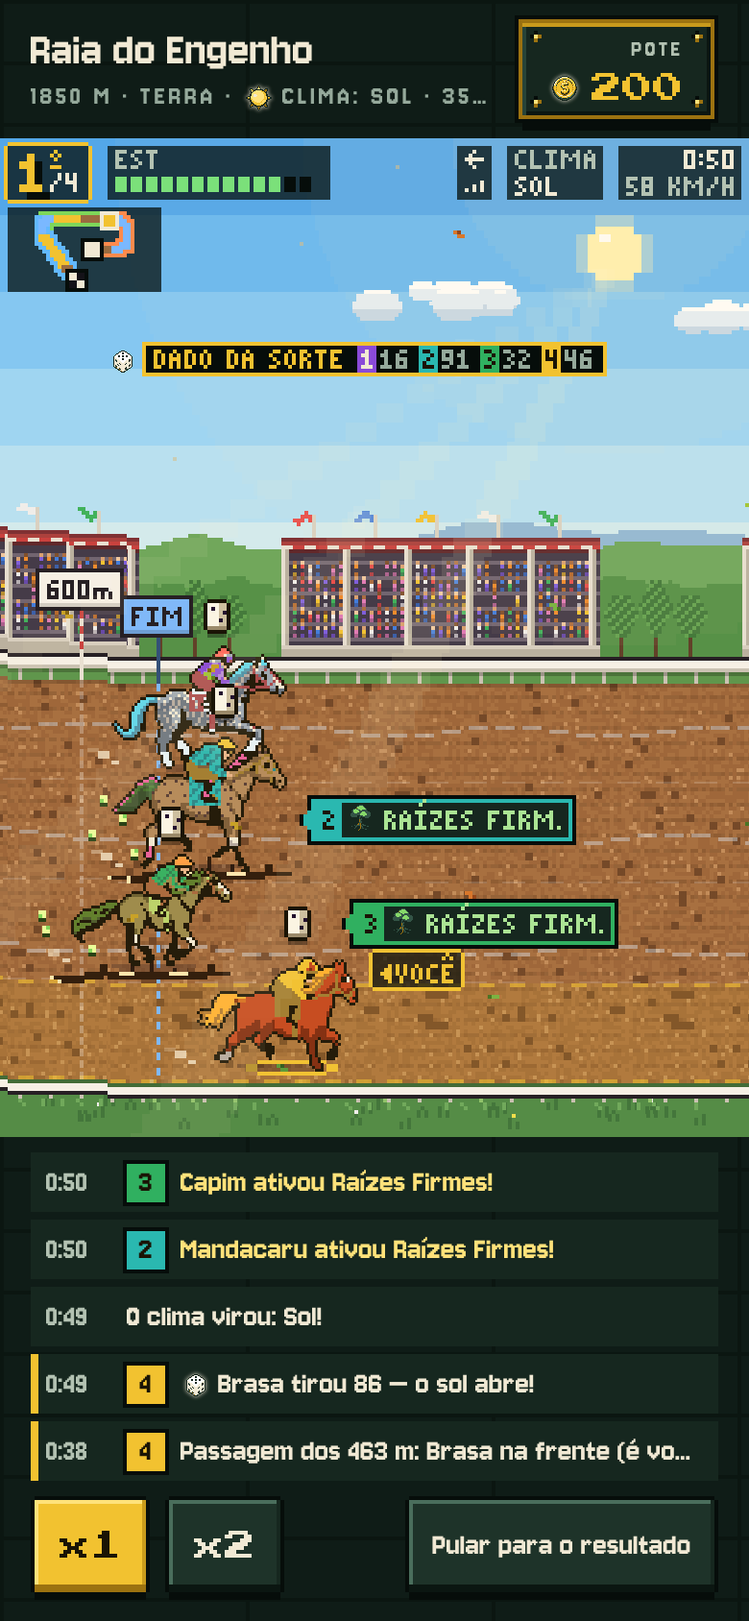
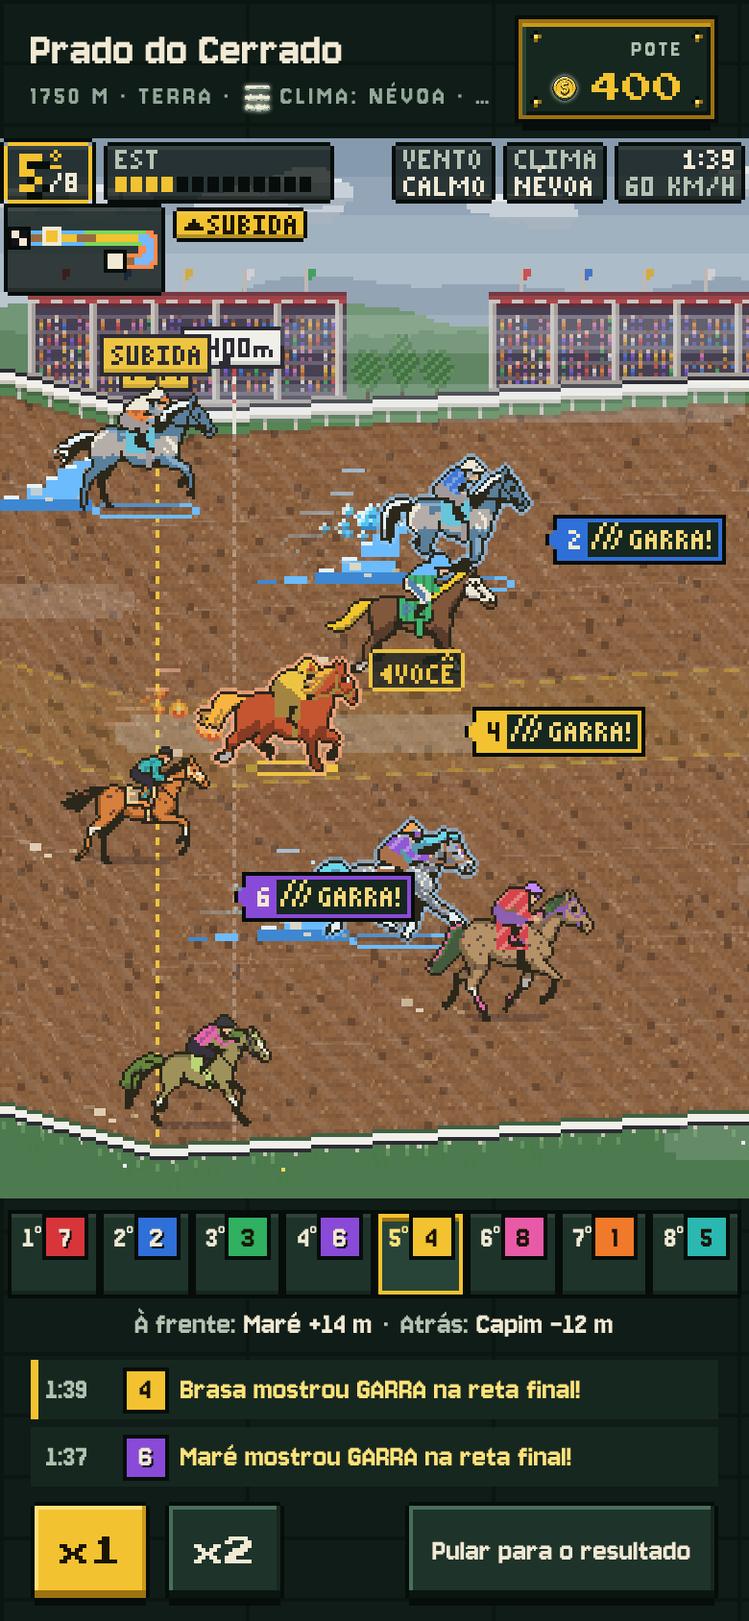
atualiza documentos, folha, capturas e memória da tela da corrida
Claude-Session: https://claude.ai/code/session_01MGExzKELAJ58uyj4wakVgJ

diff --git a/prototype/dist/interface.html b/prototype/dist/interface.html
@@ -1271,6 +1271,8 @@ img.icone.icone--32 { width: 32px; height: 32px; image-rendering: pixelated; }  
 <section class="comp" data-componente="4.13" aria-labelledby="c-4-13"><h2 class="comp-tit" id="c-4-13">4.13 Botão de ajuda</h2><p class="comp-nota">Classe .ajuda (alvo de 44×44 px; a peça de 14×14 px no ::before, em ouro quando aberto ou com o mouse).</p><div class="estado-par"><div class="col col--estreita"><div class="estado"><span class="estado-rot">normal</span><div class="alvo-ajuda"><button type="button" class="ajuda" aria-expanded="false" aria-label="O que é o Poder?" title="O Poder resume o cavalo."></button></div></div><div class="estado"><span class="estado-rot">aberto</span><div class="alvo-ajuda"><button type="button" class="ajuda" aria-expanded="true" aria-label="O que é o Poder?" title="O Poder resume o cavalo."></button></div></div><div class="estado"><span class="estado-rot">foco</span><div class="alvo-ajuda"><button type="button" class="ajuda foco-demo" aria-expanded="false" aria-label="O que é o Poder?" title="O Poder resume o cavalo."></button></div></div></div><div class="col col--larga" aria-hidden="true"><div class="estado"><span class="estado-rot">normal</span><div class="alvo-ajuda"><button type="button" class="ajuda" aria-expanded="false" aria-label="O que é o Poder?" title="O Poder resume o cavalo."></button></div></div><div class="estado"><span class="estado-rot">aberto</span><div class="alvo-ajuda"><button type="button" class="ajuda" aria-expanded="true" aria-label="O que é o Poder?" title="O Poder resume o cavalo."></button></div></div><div class="estado"><span class="estado-rot">foco</span><div class="alvo-ajuda"><button type="button" class="ajuda foco-demo" aria-expanded="false" aria-label="O que é o Poder?" title="O Poder resume o cavalo."></button></div></div></div></div></section>
 <section class="comp" data-componente="4.14" aria-labelledby="c-4-14"><h2 class="comp-tit" id="c-4-14">4.14 Avisos</h2><p class="comp-nota">Classes .aviso e .aviso--perda.</p><div class="estado-par"><div class="col col--estreita"><div class="estado"><span class="estado-rot">aviso</span><p class="aviso">Sua sala do Páreo continua aberta com entrada de 100 de Ouro.</p></div><div class="estado"><span class="estado-rot">aviso de perda</span><p class="aviso aviso--perda">Seu Ouro não cobre a menor entrada. Faça um treino gratuito.</p></div></div><div class="col col--larga" aria-hidden="true"><div class="estado"><span class="estado-rot">aviso</span><p class="aviso">Sua sala do Páreo continua aberta com entrada de 100 de Ouro.</p></div><div class="estado"><span class="estado-rot">aviso de perda</span><p class="aviso aviso--perda">Seu Ouro não cobre a menor entrada. Faça um treino gratuito.</p></div></div></div></section>
 <section class="comp" data-componente="4.15" aria-labelledby="c-4-15"><h2 class="comp-tit" id="c-4-15">4.15 Foco</h2><p class="comp-nota">Anel de 3 px em --foco (:focus-visible), igual em todos os componentes.</p><div class="estado-par"><div class="col col--estreita"><div class="estado"><span class="estado-rot">botão</span><button type="button" class="btn foco-demo">Com foco</button></div><div class="estado"><span class="estado-rot">opção</span><button type="button" class="btn opcao opcao--centro foco-demo" aria-pressed="false">Com foco</button></div><div class="estado"><span class="estado-rot">aba</span><div class="moldura-fixa moldura-fixa--solta"><button type="button" class="app-aba foco-demo"><span class="app-aba-icone" aria-hidden="true">🐎</span><span class="app-aba-rotulo">Estábulo</span></button></div></div><div class="estado"><span class="estado-rot">ajuda</span><div class="alvo-ajuda"><button type="button" class="ajuda foco-demo" aria-expanded="false" aria-label="O que é o Poder?" title="O Poder resume o cavalo."></button></div></div></div><div class="col col--larga" aria-hidden="true"><div class="estado"><span class="estado-rot">botão</span><button type="button" class="btn foco-demo">Com foco</button></div><div class="estado"><span class="estado-rot">opção</span><button type="button" class="btn opcao opcao--centro foco-demo" aria-pressed="false">Com foco</button></div><div class="estado"><span class="estado-rot">aba</span><div class="moldura-fixa moldura-fixa--solta"><button type="button" class="app-aba foco-demo"><span class="app-aba-icone" aria-hidden="true">🐎</span><span class="app-aba-rotulo">Estábulo</span></button></div></div><div class="estado"><span class="estado-rot">ajuda</span><div class="alvo-ajuda"><button type="button" class="ajuda foco-demo" aria-expanded="false" aria-label="O que é o Poder?" title="O Poder resume o cavalo."></button></div></div></div></div></section>
+<section class="comp" data-componente="4.16" aria-labelledby="c-4-16"><h2 class="comp-tit" id="c-4-16">4.16 Faixa de ordem da corrida</h2><p class="comp-nota">Classes .ordem, .ordem-item (o do jogador com .ordem-item--voce) e .ordem-vizinhos, embaixo da pista. No Dado da Sorte, o número de cada corredor em .ordem-dado e o do vencedor com .ordem-item--maior. Em tela baixa (.tela--baixa, altura &lt; 700 px), uma linha só: sem os vizinhos, e o número do Dado no lugar da posição.</p><div class="estado-par"><div class="col col--estreita"><div class="estado"><span class="estado-rot">normal (8 corredores)</span><section class="ordem" aria-label="Classificação"><ol class="ordem-lista"><li class="ordem-item" data-raia="6"><span class="ordem-pos">1<sup class="ord" aria-hidden="true">o</sup><span class="sr">º</span></span><span class="raia seda-6 raia--mini" aria-label="Raia 7">7</span><span class="ordem-dado"></span><span class="sr">Trovão</span></li><li class="ordem-item ordem-item--voce" data-raia="1"><span class="ordem-pos">2<sup class="ord" aria-hidden="true">o</sup><span class="sr">º</span></span><span class="raia seda-voce raia--mini" aria-label="Raia 2">2</span><span class="ordem-dado"></span><span class="sr">Brasa (você)</span></li><li class="ordem-item" data-raia="5"><span class="ordem-pos">3<sup class="ord" aria-hidden="true">o</sup><span class="sr">º</span></span><span class="raia seda-5 raia--mini" aria-label="Raia 6">6</span><span class="ordem-dado"></span><span class="sr">Pequi</span></li><li class="ordem-item" data-raia="3"><span class="ordem-pos">4<sup class="ord" aria-hidden="true">o</sup><span class="sr">º</span></span><span class="raia seda-3 raia--mini" aria-label="Raia 4">4</span><span class="ordem-dado"></span><span class="sr">Ipê</span></li><li class="ordem-item" data-raia="4"><span class="ordem-pos">5<sup class="ord" aria-hidden="true">o</sup><span class="sr">º</span></span><span class="raia seda-4 raia--mini" aria-label="Raia 5">5</span><span class="ordem-dado"></span><span class="sr">Faísca</span></li><li class="ordem-item" data-raia="0"><span class="ordem-pos">6<sup class="ord" aria-hidden="true">o</sup><span class="sr">º</span></span><span class="raia seda-0 raia--mini" aria-label="Raia 1">1</span><span class="ordem-dado"></span><span class="sr">Mandacaru</span></li><li class="ordem-item" data-raia="2"><span class="ordem-pos">7<sup class="ord" aria-hidden="true">o</sup><span class="sr">º</span></span><span class="raia seda-2 raia--mini" aria-label="Raia 3">3</span><span class="ordem-dado"></span><span class="sr">Lambari</span></li><li class="ordem-item" data-raia="7"><span class="ordem-pos">8<sup class="ord" aria-hidden="true">o</sup><span class="sr">º</span></span><span class="raia seda-7 raia--mini" aria-label="Raia 8">8</span><span class="ordem-dado"></span><span class="sr">Jatobá</span></li></ol><p class="ordem-vizinhos"><span class="viz"><span class="viz-rot">À frente: </span><b class="viz-nome">Trovão</b><span class="viz-m"> +3 m</span></span><span class="viz-sep"> · </span><span class="viz"><span class="viz-rot">Atrás: </span><b class="viz-nome">Pequi</b><span class="viz-m"> −4 m</span></span></p></section></div><div class="estado"><span class="estado-rot">Dado da Sorte (números e o vencedor marcado)</span><section class="ordem" aria-label="Classificação"><ol class="ordem-lista"><li class="ordem-item ordem-item--maior" data-raia="6"><span class="ordem-pos">1<sup class="ord" aria-hidden="true">o</sup><span class="sr">º</span></span><span class="raia seda-6 raia--mini" aria-label="Raia 7">7</span><span class="ordem-dado">86</span><span class="sr">Trovão</span></li><li class="ordem-item ordem-item--voce" data-raia="1"><span class="ordem-pos">2<sup class="ord" aria-hidden="true">o</sup><span class="sr">º</span></span><span class="raia seda-voce raia--mini" aria-label="Raia 2">2</span><span class="ordem-dado">73</span><span class="sr">Brasa (você)</span></li><li class="ordem-item" data-raia="5"><span class="ordem-pos">3<sup class="ord" aria-hidden="true">o</sup><span class="sr">º</span></span><span class="raia seda-5 raia--mini" aria-label="Raia 6">6</span><span class="ordem-dado">51</span><span class="sr">Pequi</span></li><li class="ordem-item" data-raia="3"><span class="ordem-pos">4<sup class="ord" aria-hidden="true">o</sup><span class="sr">º</span></span><span class="raia seda-3 raia--mini" aria-label="Raia 4">4</span><span class="ordem-dado">30</span><span class="sr">Ipê</span></li><li class="ordem-item" data-raia="4"><span class="ordem-pos">5<sup class="ord" aria-hidden="true">o</sup><span class="sr">º</span></span><span class="raia seda-4 raia--mini" aria-label="Raia 5">5</span><span class="ordem-dado">12</span><span class="sr">Faísca</span></li><li class="ordem-item" data-raia="0"><span class="ordem-pos">6<sup class="ord" aria-hidden="true">o</sup><span class="sr">º</span></span><span class="raia seda-0 raia--mini" aria-label="Raia 1">1</span><span class="ordem-dado">38</span><span class="sr">Mandacaru</span></li><li class="ordem-item" data-raia="2"><span class="ordem-pos">7<sup class="ord" aria-hidden="true">o</sup><span class="sr">º</span></span><span class="raia seda-2 raia--mini" aria-label="Raia 3">3</span><span class="ordem-dado">65</span><span class="sr">Lambari</span></li><li class="ordem-item" data-raia="7"><span class="ordem-pos">8<sup class="ord" aria-hidden="true">o</sup><span class="sr">º</span></span><span class="raia seda-7 raia--mini" aria-label="Raia 8">8</span><span class="ordem-dado">44</span><span class="sr">Jatobá</span></li></ol><p class="ordem-vizinhos"><span class="viz"><span class="viz-rot">À frente: </span><b class="viz-nome">Trovão</b><span class="viz-m"> colado</span></span><span class="viz-sep"> · </span><span class="viz"><span class="viz-rot">Atrás: </span><b class="viz-nome">Pequi</b><span class="viz-m"> −11 m</span></span></p></section></div><div class="estado"><span class="estado-rot">tela baixa</span><div class="tela--baixa"><section class="ordem" aria-label="Classificação"><ol class="ordem-lista"><li class="ordem-item" data-raia="6"><span class="ordem-pos">1<sup class="ord" aria-hidden="true">o</sup><span class="sr">º</span></span><span class="raia seda-6 raia--mini" aria-label="Raia 7">7</span><span class="ordem-dado"></span><span class="sr">Trovão</span></li><li class="ordem-item ordem-item--voce" data-raia="1"><span class="ordem-pos">2<sup class="ord" aria-hidden="true">o</sup><span class="sr">º</span></span><span class="raia seda-voce raia--mini" aria-label="Raia 2">2</span><span class="ordem-dado"></span><span class="sr">Brasa (você)</span></li><li class="ordem-item" data-raia="5"><span class="ordem-pos">3<sup class="ord" aria-hidden="true">o</sup><span class="sr">º</span></span><span class="raia seda-5 raia--mini" aria-label="Raia 6">6</span><span class="ordem-dado"></span><span class="sr">Pequi</span></li><li class="ordem-item" data-raia="3"><span class="ordem-pos">4<sup class="ord" aria-hidden="true">o</sup><span class="sr">º</span></span><span class="raia seda-3 raia--mini" aria-label="Raia 4">4</span><span class="ordem-dado"></span><span class="sr">Ipê</span></li><li class="ordem-item" data-raia="4"><span class="ordem-pos">5<sup class="ord" aria-hidden="true">o</sup><span class="sr">º</span></span><span class="raia seda-4 raia--mini" aria-label="Raia 5">5</span><span class="ordem-dado"></span><span class="sr">Faísca</span></li><li class="ordem-item" data-raia="0"><span class="ordem-pos">6<sup class="ord" aria-hidden="true">o</sup><span class="sr">º</span></span><span class="raia seda-0 raia--mini" aria-label="Raia 1">1</span><span class="ordem-dado"></span><span class="sr">Mandacaru</span></li><li class="ordem-item" data-raia="2"><span class="ordem-pos">7<sup class="ord" aria-hidden="true">o</sup><span class="sr">º</span></span><span class="raia seda-2 raia--mini" aria-label="Raia 3">3</span><span class="ordem-dado"></span><span class="sr">Lambari</span></li><li class="ordem-item" data-raia="7"><span class="ordem-pos">8<sup class="ord" aria-hidden="true">o</sup><span class="sr">º</span></span><span class="raia seda-7 raia--mini" aria-label="Raia 8">8</span><span class="ordem-dado"></span><span class="sr">Jatobá</span></li></ol><p class="ordem-vizinhos"><span class="viz"><span class="viz-rot">À frente: </span><b class="viz-nome">Trovão</b><span class="viz-m"> +3 m</span></span><span class="viz-sep"> · </span><span class="viz"><span class="viz-rot">Atrás: </span><b class="viz-nome">Pequi</b><span class="viz-m"> −4 m</span></span></p></section></div></div><div class="estado"><span class="estado-rot">tela baixa com o Dado</span><div class="tela--baixa"><section class="ordem" aria-label="Classificação"><ol class="ordem-lista"><li class="ordem-item ordem-item--maior" data-raia="6"><span class="ordem-pos">86</span><span class="raia seda-6 raia--mini" aria-label="Raia 7">7</span><span class="ordem-dado"></span><span class="sr">Trovão</span></li><li class="ordem-item ordem-item--voce" data-raia="1"><span class="ordem-pos">73</span><span class="raia seda-voce raia--mini" aria-label="Raia 2">2</span><span class="ordem-dado"></span><span class="sr">Brasa (você)</span></li><li class="ordem-item" data-raia="5"><span class="ordem-pos">51</span><span class="raia seda-5 raia--mini" aria-label="Raia 6">6</span><span class="ordem-dado"></span><span class="sr">Pequi</span></li><li class="ordem-item" data-raia="3"><span class="ordem-pos">30</span><span class="raia seda-3 raia--mini" aria-label="Raia 4">4</span><span class="ordem-dado"></span><span class="sr">Ipê</span></li><li class="ordem-item" data-raia="4"><span class="ordem-pos">12</span><span class="raia seda-4 raia--mini" aria-label="Raia 5">5</span><span class="ordem-dado"></span><span class="sr">Faísca</span></li><li class="ordem-item" data-raia="0"><span class="ordem-pos">38</span><span class="raia seda-0 raia--mini" aria-label="Raia 1">1</span><span class="ordem-dado"></span><span class="sr">Mandacaru</span></li><li class="ordem-item" data-raia="2"><span class="ordem-pos">65</span><span class="raia seda-2 raia--mini" aria-label="Raia 3">3</span><span class="ordem-dado"></span><span class="sr">Lambari</span></li><li class="ordem-item" data-raia="7"><span class="ordem-pos">44</span><span class="raia seda-7 raia--mini" aria-label="Raia 8">8</span><span class="ordem-dado"></span><span class="sr">Jatobá</span></li></ol><p class="ordem-vizinhos"><span class="viz"><span class="viz-rot">À frente: </span><b class="viz-nome">Trovão</b><span class="viz-m"> +3 m</span></span><span class="viz-sep"> · </span><span class="viz"><span class="viz-rot">Atrás: </span><b class="viz-nome">Pequi</b><span class="viz-m"> −4 m</span></span></p></section></div></div></div><div class="col col--larga" aria-hidden="true"><div class="estado"><span class="estado-rot">normal (8 corredores)</span><section class="ordem" aria-label="Classificação"><ol class="ordem-lista"><li class="ordem-item" data-raia="6"><span class="ordem-pos">1<sup class="ord" aria-hidden="true">o</sup><span class="sr">º</span></span><span class="raia seda-6 raia--mini" aria-label="Raia 7">7</span><span class="ordem-dado"></span><span class="sr">Trovão</span></li><li class="ordem-item ordem-item--voce" data-raia="1"><span class="ordem-pos">2<sup class="ord" aria-hidden="true">o</sup><span class="sr">º</span></span><span class="raia seda-voce raia--mini" aria-label="Raia 2">2</span><span class="ordem-dado"></span><span class="sr">Brasa (você)</span></li><li class="ordem-item" data-raia="5"><span class="ordem-pos">3<sup class="ord" aria-hidden="true">o</sup><span class="sr">º</span></span><span class="raia seda-5 raia--mini" aria-label="Raia 6">6</span><span class="ordem-dado"></span><span class="sr">Pequi</span></li><li class="ordem-item" data-raia="3"><span class="ordem-pos">4<sup class="ord" aria-hidden="true">o</sup><span class="sr">º</span></span><span class="raia seda-3 raia--mini" aria-label="Raia 4">4</span><span class="ordem-dado"></span><span class="sr">Ipê</span></li><li class="ordem-item" data-raia="4"><span class="ordem-pos">5<sup class="ord" aria-hidden="true">o</sup><span class="sr">º</span></span><span class="raia seda-4 raia--mini" aria-label="Raia 5">5</span><span class="ordem-dado"></span><span class="sr">Faísca</span></li><li class="ordem-item" data-raia="0"><span class="ordem-pos">6<sup class="ord" aria-hidden="true">o</sup><span class="sr">º</span></span><span class="raia seda-0 raia--mini" aria-label="Raia 1">1</span><span class="ordem-dado"></span><span class="sr">Mandacaru</span></li><li class="ordem-item" data-raia="2"><span class="ordem-pos">7<sup class="ord" aria-hidden="true">o</sup><span class="sr">º</span></span><span class="raia seda-2 raia--mini" aria-label="Raia 3">3</span><span class="ordem-dado"></span><span class="sr">Lambari</span></li><li class="ordem-item" data-raia="7"><span class="ordem-pos">8<sup class="ord" aria-hidden="true">o</sup><span class="sr">º</span></span><span class="raia seda-7 raia--mini" aria-label="Raia 8">8</span><span class="ordem-dado"></span><span class="sr">Jatobá</span></li></ol><p class="ordem-vizinhos"><span class="viz"><span class="viz-rot">À frente: </span><b class="viz-nome">Trovão</b><span class="viz-m"> +3 m</span></span><span class="viz-sep"> · </span><span class="viz"><span class="viz-rot">Atrás: </span><b class="viz-nome">Pequi</b><span class="viz-m"> −4 m</span></span></p></section></div><div class="estado"><span class="estado-rot">Dado da Sorte (números e o vencedor marcado)</span><section class="ordem" aria-label="Classificação"><ol class="ordem-lista"><li class="ordem-item ordem-item--maior" data-raia="6"><span class="ordem-pos">1<sup class="ord" aria-hidden="true">o</sup><span class="sr">º</span></span><span class="raia seda-6 raia--mini" aria-label="Raia 7">7</span><span class="ordem-dado">86</span><span class="sr">Trovão</span></li><li class="ordem-item ordem-item--voce" data-raia="1"><span class="ordem-pos">2<sup class="ord" aria-hidden="true">o</sup><span class="sr">º</span></span><span class="raia seda-voce raia--mini" aria-label="Raia 2">2</span><span class="ordem-dado">73</span><span class="sr">Brasa (você)</span></li><li class="ordem-item" data-raia="5"><span class="ordem-pos">3<sup class="ord" aria-hidden="true">o</sup><span class="sr">º</span></span><span class="raia seda-5 raia--mini" aria-label="Raia 6">6</span><span class="ordem-dado">51</span><span class="sr">Pequi</span></li><li class="ordem-item" data-raia="3"><span class="ordem-pos">4<sup class="ord" aria-hidden="true">o</sup><span class="sr">º</span></span><span class="raia seda-3 raia--mini" aria-label="Raia 4">4</span><span class="ordem-dado">30</span><span class="sr">Ipê</span></li><li class="ordem-item" data-raia="4"><span class="ordem-pos">5<sup class="ord" aria-hidden="true">o</sup><span class="sr">º</span></span><span class="raia seda-4 raia--mini" aria-label="Raia 5">5</span><span class="ordem-dado">12</span><span class="sr">Faísca</span></li><li class="ordem-item" data-raia="0"><span class="ordem-pos">6<sup class="ord" aria-hidden="true">o</sup><span class="sr">º</span></span><span class="raia seda-0 raia--mini" aria-label="Raia 1">1</span><span class="ordem-dado">38</span><span class="sr">Mandacaru</span></li><li class="ordem-item" data-raia="2"><span class="ordem-pos">7<sup class="ord" aria-hidden="true">o</sup><span class="sr">º</span></span><span class="raia seda-2 raia--mini" aria-label="Raia 3">3</span><span class="ordem-dado">65</span><span class="sr">Lambari</span></li><li class="ordem-item" data-raia="7"><span class="ordem-pos">8<sup class="ord" aria-hidden="true">o</sup><span class="sr">º</span></span><span class="raia seda-7 raia--mini" aria-label="Raia 8">8</span><span class="ordem-dado">44</span><span class="sr">Jatobá</span></li></ol><p class="ordem-vizinhos"><span class="viz"><span class="viz-rot">À frente: </span><b class="viz-nome">Trovão</b><span class="viz-m"> colado</span></span><span class="viz-sep"> · </span><span class="viz"><span class="viz-rot">Atrás: </span><b class="viz-nome">Pequi</b><span class="viz-m"> −11 m</span></span></p></section></div><div class="estado"><span class="estado-rot">tela baixa</span><div class="tela--baixa"><section class="ordem" aria-label="Classificação"><ol class="ordem-lista"><li class="ordem-item" data-raia="6"><span class="ordem-pos">1<sup class="ord" aria-hidden="true">o</sup><span class="sr">º</span></span><span class="raia seda-6 raia--mini" aria-label="Raia 7">7</span><span class="ordem-dado"></span><span class="sr">Trovão</span></li><li class="ordem-item ordem-item--voce" data-raia="1"><span class="ordem-pos">2<sup class="ord" aria-hidden="true">o</sup><span class="sr">º</span></span><span class="raia seda-voce raia--mini" aria-label="Raia 2">2</span><span class="ordem-dado"></span><span class="sr">Brasa (você)</span></li><li class="ordem-item" data-raia="5"><span class="ordem-pos">3<sup class="ord" aria-hidden="true">o</sup><span class="sr">º</span></span><span class="raia seda-5 raia--mini" aria-label="Raia 6">6</span><span class="ordem-dado"></span><span class="sr">Pequi</span></li><li class="ordem-item" data-raia="3"><span class="ordem-pos">4<sup class="ord" aria-hidden="true">o</sup><span class="sr">º</span></span><span class="raia seda-3 raia--mini" aria-label="Raia 4">4</span><span class="ordem-dado"></span><span class="sr">Ipê</span></li><li class="ordem-item" data-raia="4"><span class="ordem-pos">5<sup class="ord" aria-hidden="true">o</sup><span class="sr">º</span></span><span class="raia seda-4 raia--mini" aria-label="Raia 5">5</span><span class="ordem-dado"></span><span class="sr">Faísca</span></li><li class="ordem-item" data-raia="0"><span class="ordem-pos">6<sup class="ord" aria-hidden="true">o</sup><span class="sr">º</span></span><span class="raia seda-0 raia--mini" aria-label="Raia 1">1</span><span class="ordem-dado"></span><span class="sr">Mandacaru</span></li><li class="ordem-item" data-raia="2"><span class="ordem-pos">7<sup class="ord" aria-hidden="true">o</sup><span class="sr">º</span></span><span class="raia seda-2 raia--mini" aria-label="Raia 3">3</span><span class="ordem-dado"></span><span class="sr">Lambari</span></li><li class="ordem-item" data-raia="7"><span class="ordem-pos">8<sup class="ord" aria-hidden="true">o</sup><span class="sr">º</span></span><span class="raia seda-7 raia--mini" aria-label="Raia 8">8</span><span class="ordem-dado"></span><span class="sr">Jatobá</span></li></ol><p class="ordem-vizinhos"><span class="viz"><span class="viz-rot">À frente: </span><b class="viz-nome">Trovão</b><span class="viz-m"> +3 m</span></span><span class="viz-sep"> · </span><span class="viz"><span class="viz-rot">Atrás: </span><b class="viz-nome">Pequi</b><span class="viz-m"> −4 m</span></span></p></section></div></div><div class="estado"><span class="estado-rot">tela baixa com o Dado</span><div class="tela--baixa"><section class="ordem" aria-label="Classificação"><ol class="ordem-lista"><li class="ordem-item ordem-item--maior" data-raia="6"><span class="ordem-pos">86</span><span class="raia seda-6 raia--mini" aria-label="Raia 7">7</span><span class="ordem-dado"></span><span class="sr">Trovão</span></li><li class="ordem-item ordem-item--voce" data-raia="1"><span class="ordem-pos">73</span><span class="raia seda-voce raia--mini" aria-label="Raia 2">2</span><span class="ordem-dado"></span><span class="sr">Brasa (você)</span></li><li class="ordem-item" data-raia="5"><span class="ordem-pos">51</span><span class="raia seda-5 raia--mini" aria-label="Raia 6">6</span><span class="ordem-dado"></span><span class="sr">Pequi</span></li><li class="ordem-item" data-raia="3"><span class="ordem-pos">30</span><span class="raia seda-3 raia--mini" aria-label="Raia 4">4</span><span class="ordem-dado"></span><span class="sr">Ipê</span></li><li class="ordem-item" data-raia="4"><span class="ordem-pos">12</span><span class="raia seda-4 raia--mini" aria-label="Raia 5">5</span><span class="ordem-dado"></span><span class="sr">Faísca</span></li><li class="ordem-item" data-raia="0"><span class="ordem-pos">38</span><span class="raia seda-0 raia--mini" aria-label="Raia 1">1</span><span class="ordem-dado"></span><span class="sr">Mandacaru</span></li><li class="ordem-item" data-raia="2"><span class="ordem-pos">65</span><span class="raia seda-2 raia--mini" aria-label="Raia 3">3</span><span class="ordem-dado"></span><span class="sr">Lambari</span></li><li class="ordem-item" data-raia="7"><span class="ordem-pos">44</span><span class="raia seda-7 raia--mini" aria-label="Raia 8">8</span><span class="ordem-dado"></span><span class="sr">Jatobá</span></li></ol><p class="ordem-vizinhos"><span class="viz"><span class="viz-rot">À frente: </span><b class="viz-nome">Trovão</b><span class="viz-m"> +3 m</span></span><span class="viz-sep"> · </span><span class="viz"><span class="viz-rot">Atrás: </span><b class="viz-nome">Pequi</b><span class="viz-m"> −4 m</span></span></p></section></div></div></div></div></section>
+<section class="comp" data-componente="4.17" aria-labelledby="c-4-17"><h2 class="comp-tit" id="c-4-17">4.17 Abas do resultado</h2><p class="comp-nota">Sub-abas .subabas (as mesmas da ficha da montaria), com aria-pressed na aba aberta; o resultado abre em &quot;Chegada&quot;.</p><div class="estado-par"><div class="col col--estreita"><div class="estado"><span class="estado-rot">Chegada aberta</span><div class="subabas" role="group" aria-label="Detalhes da corrida"><button type="button" class="btn opcao opcao--centro" data-acao="resultado-aba" data-id="chegada" aria-pressed="true">Chegada</button><button type="button" class="btn opcao opcao--centro" data-acao="resultado-aba" data-id="momentos" aria-pressed="false">Momentos</button></div></div><div class="estado"><span class="estado-rot">Momentos aberta</span><div class="subabas" role="group" aria-label="Detalhes da corrida"><button type="button" class="btn opcao opcao--centro" data-acao="resultado-aba" data-id="chegada" aria-pressed="false">Chegada</button><button type="button" class="btn opcao opcao--centro" data-acao="resultado-aba" data-id="momentos" aria-pressed="true">Momentos</button></div></div></div><div class="col col--larga" aria-hidden="true"><div class="estado"><span class="estado-rot">Chegada aberta</span><div class="subabas" role="group" aria-label="Detalhes da corrida"><button type="button" class="btn opcao opcao--centro" data-acao="resultado-aba" data-id="chegada" aria-pressed="true">Chegada</button><button type="button" class="btn opcao opcao--centro" data-acao="resultado-aba" data-id="momentos" aria-pressed="false">Momentos</button></div></div><div class="estado"><span class="estado-rot">Momentos aberta</span><div class="subabas" role="group" aria-label="Detalhes da corrida"><button type="button" class="btn opcao opcao--centro" data-acao="resultado-aba" data-id="chegada" aria-pressed="false">Chegada</button><button type="button" class="btn opcao opcao--centro" data-acao="resultado-aba" data-id="momentos" aria-pressed="true">Momentos</button></div></div></div></div></section>
[1 lines of base64/hex data omitted]
 </main>
 </body>

diff --git a/docs/memoria/ESTADO.md b/docs/memoria/ESTADO.md
@@ -1,6 +1,6 @@
 # Estado do projeto
 
-_Atualizado em 2026-11-15._
+_Atualizado em 2026-11-16._
 
 **Fase:** Protótipo, a caminho do MVP. **Ainda não é hora de publicar no Play**; o caminho, as
 durações e o checklist estão em `docs/cronograma.md`. **Tecnologia decidida (2026-11-10):** o
@@ -9,9 +9,9 @@ protótipo vira o jogo, a mesma base web empacotada para Android, com os módulo
 ## Onde estamos
 - **Branches:** a `main` tem tudo até o bloco 1b e a parte 2b da Visuais 2 (`claude/cavalos-v3` integrada em
   2026-11-14, por fast-forward). Em aberto só a `claude/empacotamento` (em pausa, só com as decisões iniciais; volta
-  como bloco 3). A `claude/visuais-2` leva a parte 3a (acabamento da interface), pronta e **ainda sem merge na `main`**
-  (build b7219a2 mais a rodada final de correções); a `claude/visuais-2` leva a 3a e a 3b, prontas, esperando o Vinicius; a 3c sai dela.
-  Trabalho novo sai da `main`, exceto a 3c.
+  como bloco 3). A `claude/visuais-2` leva a frente "interface" da Visuais 2 inteira (3a acabamento, 3b Estábulo e
+  montaria no celular, 3c tela da corrida), completa e **ainda sem merge na `main`**: o Vinicius joga antes e decide a
+  integração. Trabalho novo sai da `main`.
 - **Onde jogar** (artefatos privados do claude.ai; republicar depois de cada build):
   - jogo de produção, sem modo DEV: https://claude.ai/artifact/MKTKQUYmzBNun92abFzygn (`prototype/dist/jogo.html`)
   - build de teste com modo DEV: https://claude.ai/artifact/LiMr2cM7FRgFZqJ6dFHPhU (`prototype/dist/jogo-dev.html`)
@@ -19,7 +19,8 @@ protótipo vira o jogo, a mesma base web empacotada para Android, com os módulo
   - no computador: `prototype/dist/preview.html` (com `?dev=1` para o modo DEV).
 - **Modo DEV:** save separado (`galope-elemental:dev`), gaveta "DEV" com Moedas, Cavalo, Itens,
   Próxima corrida (pista, clima, vento, skills sempre) e Perfil. Nunca toca no save real.
-- **Verificação:** `./scripts/check.sh` em 8 etapas termina em `VERIFICAÇÃO COMPLETA: OK` (129 testes de simulação, 104 de efeitos, 170 de moldes, 615 conferências do wiki, 87 metas de balanço no modo rápido e 165 no completo, e o teste de interface; contagem de 2026-11-15, parte 3b da Visuais 2: 129 / 104 / 170 / 615 / 87, sem mudança nas regras).
+- **Verificação:** `./scripts/check.sh` em 8 etapas termina em `VERIFICAÇÃO COMPLETA: OK` (129 testes de simulação, 117 de efeitos, 170 de moldes, 615 conferências do wiki, 87 metas de balanço no modo rápido e 165 no completo, e o teste de interface; contagem de 2026-11-16, parte 3c da Visuais 2: 129 / 117 / 170 / 615 / 87, sem mudança nas regras; os testes de efeitos
+  passaram de 104 para 117 com a 3c).
 
 ## Pronto (o detalhe de cada frente está na spec, em `docs/superpowers/specs/`)
 | Frente | Entrega | Spec |
@@ -103,18 +104,61 @@ Spec em `docs/superpowers/specs/2026-11-14-interface-acabamento-design.md`, plan
     conta não fecha); meta nova: com as abas no topo, os 7 status inteiros numa tela;
   - "Genética" no topo da aba Status; custo "·N" embaixo do valor;
   - a barra presa não pega toque por ~0,4 s ao aparecer e por ~0,4 s depois do 1º toque no Confirmar (contra toque acidental).
-- **Para a 3c:** o `::before` da `.opcao` escolhida já está ocupado pelo destaque; o bloco de `box-shadow` do botão se
-  repete em `.btn`, `.app-aba`, `.capacete-btn` e `.montaria-linha` (4 cópias; dá para trocar por propriedades). Pendências
-  da 3b que ficam para a 3c: o motivo que repete uma frase já na tela (a barra presa cresce ~100 px no Confirmar travado) e a
-  lista que pula quando a `.motivo` de um +N some; e a plaquinha "Ativa" da linha do Estábulo sem contorno no modo de
-  cores forçadas (só aparência).
-- **Próximos passos:** 3c (tela da corrida; rever o ordinal sem `.sr` na faixa de eventos), com spec e plano. A 3b está pronta (acima).
-  Pendências menores da 3a (sem hover/apertado nas abas da barra de baixo, "ç" de
-  Expedição encostado no bisel).
+- **Para depois (a 3c não mexeu):** o `::before` da `.opcao` escolhida já está ocupado pelo destaque; o bloco de
+  `box-shadow` do botão se repete em `.btn`, `.app-aba`, `.capacete-btn` e `.montaria-linha` (4 cópias; dá para trocar por
+  propriedades). As três pendências da 3b (o motivo repetido, a lista que pulava e a plaquinha "Ativa" nas cores forçadas) e
+  o ordinal sem `.sr` na narração da corrida foram fechados na 3c (seção abaixo).
+- **Pendências menores da 3a:** sem hover/apertado nas abas da barra de baixo; "ç" de Expedição encostado no bisel.
+
+## Visuais 2, parte 3c: tela da corrida (pronta em 2026-11-16, na `claude/visuais-2`)
+Spec em `docs/superpowers/specs/2026-11-15-tela-da-corrida-design.md` (aprovada pelo Vinicius), plano em
+`docs/superpowers/plans/2026-11-16-tela-da-corrida.md`; decisões em `decisoes.md` (2026-11-16, as dele e as da execução);
+`docs/GDD.md` §5. Com ela, a frente "interface" (3a, 3b, 3c) está completa na `claude/visuais-2`, **sem merge na `main`**: o
+Vinicius joga antes e decide.
+- **O que mudou:** faixa de ordem embaixo da pista (todos os corredores em ordem, e quem vem logo à frente e logo atrás, com
+  a distância); narração em caixa de altura fixa (cada frase em até 2 linhas, sem "…"); Dado da Sorte numa faixa grande na
+  pista, com o número de cada corredor na faixa de ordem, revelados só quando os dados param; faixa do lugar na chegada;
+  nome inteiro das skills dos rivais nas plaquinhas; contorno e bisel no painel do topo; resultado numa tela, com as abas
+  Chegada e Momentos e o 1º lugar maior no pódio; as três pendências da 3b (motivo repetido, lista que pulava, "Ativa" nas
+  cores forçadas). Nenhuma regra, número ou texto de regra mudou.
+- **Medidas antes → depois** (modo DEV, densidade 2):
+  - corrida a 360×780 (7 corredores): pista de 540 para 464 px; faixa de ordem 68 px; narração 66 px (igual);
+  - corrida a 360×640 (tela baixa): pista de 400 para 398 px, sem o layout compacto; faixa de ordem 28 px (uma linha);
+    narração de 66 para 33 px (uma frase);
+  - a lista da faixa de ordem é reescrita no máximo 4 vezes por segundo (medido: 2 em 2 s em x2); pior quadro com 3.905
+    chamadas de desenho para o limite de 4.500 (limite sem mudança), ~1,04 ms de JS por quadro;
+  - resultado a 360×780 (7 corredores): página de 2.468 para 1.481 px (teto do teste 1.500); fim das abas em 732 px (janela
+    de 780); linha da tabela de 77 para 66 px; pódio 336×172 px, 1º na escala 3 e 2º/3º na escala 2;
+  - Confirmar travado (pendência da 3b): a barra presa ia de 165,75 a 257,5 px no toque, agora fica em 165,75 px; o +1
+    tocado na linha de baixo ia de 419,5 para 345 px, agora de 419,5 para 419 px.
+- **Verificação:** `./scripts/check.sh` OK (129 testes de simulação, 117 de efeitos — eram 104: a 3c acrescentou os das faixas
+  novas e das plaquinhas e tirou os 2 da faixa de números antiga —, 170 de moldes, 615 conferências do wiki, 87 metas no
+  balanço rápido e o teste de interface). Capturas oficiais de `prototype/screens/` regeneradas (31 imagens, nenhuma nova
+  nem removida; 20 mudaram). Folha da interface com a faixa de ordem (normal, com o Dado e em tela baixa) e as abas do resultado
+  (seções 4.16 e 4.17).
+- **A confirmar com o Vinicius (gosto, 3c):**
+  - a faixa de ordem só com a posição e o selo da raia (sem o nome do cavalo nos itens);
+  - "colado" no lugar de "+0 m";
+  - o momento do Dado: título "DADO DA SORTE" enquanto os dados giram; o vencedor, a narração e o clima do painel só depois;
+  - a faixa do Dado e a do lugar descem para o pé da pista quando cobririam o cavalo dele (raias de cima);
+  - o fim da corrida espera a faixa do lugar (2,5 s) antes do resultado;
+  - resultado: as frases de enfeite embaixo da manchete saíram (fica só a do pódio sem prêmio); o saldo ao lado do XP; os
+    degraus do pódio mais baixos (29/25/21 pixels de arte, eram 35/27/21); os botões lado a lado;
+  - no caso "pódio sem prêmio", as abas ficam 42 px abaixo da primeira tela (a meta da primeira tela valia para o caso comum);
+  - o motivo que já está na tela é destacado (contorno dourado por 2 s) em vez de repetido;
+  - em paisagem, a faixa de ordem ao lado dos controles.
+- **Pendências conhecidas:**
+  - paisagem (780×360) com 7 ou 8 corredores: os controles da corrida saem da janela de 360 px de altura (o fundo
+    deles fica em 374 px em produção com 8; 398 no DEV com 8; 374 no DEV com 7). Já era assim antes da 3c, e a faixa de ordem não piora; cabem produção com até 7 e DEV com até 6;
+  - a chuva e a névoa desenhadas na pista começam no instante do evento, ~1 s antes de a faixa do Dado revelar o resultado;
+  - nas cores forçadas, o selo "Nv N" da linha do Estábulo continua sem contorno (só aparência).
 
 ## Em andamento
 - **Ginásios:** ideia registrada (`docs/GDD.md` §8.6); desenho depois do bloco 1b, que também traz a fonte da Rédea nova. Cada ginásio tem o
   foco num elemento.
+- **Frente "interface" da Visuais 2 completa na `claude/visuais-2`, esperando o Vinicius:** a 3c (tela da corrida) ficou
+  pronta em 2026-11-16 (seção própria acima, com a lista "A confirmar com o Vinicius (gosto, 3c)"); com a 3a e a 3b, a
+  frente está inteira e **sem merge na `main`** até ele jogar e decidir.
 - **Parte 3b da Visuais 2 pronta na `claude/visuais-2`, esperando o Vinicius** (Estábulo e montaria no celular; spec em
   `docs/superpowers/specs/2026-11-15-estabulo-montaria-celular-design.md`, plano em `docs/superpowers/plans/2026-11-15-estabulo-montaria-celular.md`;
   decisões da execução em `decisoes.md`). Estábulo em lista de linhas, ficha com retrato grande e aba Ficha, aba Status em linha
@@ -195,14 +239,16 @@ Spec em `docs/superpowers/specs/2026-11-14-interface-acabamento-design.md`, plan
 - **GDD §9+:** expedições, tecnologia do servidor, anti-trapaça, PVP assíncrono e ranqueada.
 
 ## Próximos passos
-0. O Vinicius olha a folha da interface e o build de teste da 3a e da 3b e decide as listas "A confirmar com o Vinicius
-   (gosto, 3a)" e "(gosto, 3b)" (acima); o que ele mudar entra antes do merge da `claude/visuais-2` na `main`.
+0. O Vinicius joga a 3a, a 3b e a 3c (folha da interface e build de teste) e decide as listas "A confirmar com o Vinicius
+   (gosto, 3a)", "(gosto, 3b)" e "(gosto, 3c)" (acima) e a integração da `claude/visuais-2` na `main`; o que ele mudar entra
+   antes do merge.
 1. O Vinicius joga o modelo novo no artefato (jogo, DEV e wiki republicados com o 1b, já na `main`) e decide os
    pontos de calibração acima; o que ele mudar entra como ajuste por cima da `main`.
-2. **3c (tela da corrida)** da Visuais 2, com spec e plano (a 3b está pronta).
+2. **2c (animações novas para todos os portes)** da Visuais 2: espera a confirmação de créditos do Vinicius.
 3. O Vinicius apaga as branches antigas no GitHub (lista abaixo).
 4. **Bloco 2, preparação com relógio:** spec, revisão do Vinicius, plano e execução.
-5. **Bloco 3, empacotamento:** retomar pela pergunta do Capacitor; o teste fechado começa aqui.
+5. **Bloco 3, empacotamento (#62):** retomar pela pergunta do Capacitor; o teste fechado começa aqui. Os ginásios (#68)
+   têm desenho depois do bloco 1b (seção "Em andamento").
 6. Abrir a conta de desenvolvedor do Play e começar a juntar os 12 testadores (é o que mais atrasa).
 7. Blocos 4 a 6 chegam como atualizações durante o teste fechado; o bloco 7 (online) vem depois.
 

diff --git a/docs/memoria/decisoes.md b/docs/memoria/decisoes.md
@@ -15,6 +15,44 @@ Spec em `docs/superpowers/specs/2026-11-15-tela-da-corrida-design.md` (aprovada 
   manchete do resultado saem (fica a que explica o pódio sem prêmio); a tabela "Ordem de chegada" passa a 2 linhas de texto
   por corredor; "resultado numa tela" vale para o caso sem aviso de nível, skill ou Ouro.
 
+## 2026-11-16 — Visuais 2, parte 3c: decisões da execução (controlador)
+Tudo abaixo é do controlador (nada foi decidido pelo Vinicius). Plano em `docs/superpowers/plans/2026-11-16-tela-da-corrida.md`.
+O que é gosto e espera a palavra dele está em `ESTADO.md` ("A confirmar com o Vinicius (gosto, 3c)").
+- **(controlador) A faixa "CLIMA: X" que aparecia depois do Dado saiu** — a faixa nova do Dado já diz o efeito no clima;
+  ficam o clarão leve da virada, o clima no painel do topo e o aviso para o leitor de tela. Se errado: é só pôr a faixa de volta.
+- **(controlador) Os itens da faixa de ordem não mostram o nome do cavalo, nem em tela larga** (a spec deixava a escolha) —
+  a linha dos vizinhos, logo embaixo, já traz os nomes. Se errado: acrescentar o nome é uma mudança pequena.
+- **(controlador) Em paisagem (altura até 500 px) a faixa de ordem fica na linha dos controles** e não soma altura à tela —
+  se errado: a faixa fica apertada ao lado dos controles.
+- **(controlador) O estouro antigo em paisagem com 7 ou 8 corredores não se corrige na 3c** (os controles saem da janela; já
+  era assim antes, e a faixa de ordem não piora) — mexer nisso é mexer no desenho da pista, e a 3c mira o celular em pé.
+  Custo: quem joga deitado com sala cheia continua rolando para ver os controles. Fica como pendência no `ESTADO.md`.
+- **(controlador) Distância que arredonda a 0 vira "colado"** na linha dos vizinhos ("À frente: Ipê colado") — "+0 m" lia
+  como defeito. Se errado: é uma palavra.
+- **(controlador) O Dado guarda o suspense até os dados pararem:** enquanto giram, a faixa grande mostra só o dado e "DADO DA
+  SORTE", centralizados e grandes, e a faixa de ordem fica sem números; o vencedor, os números, a frase da narração (a do Dado
+  e a da virada de clima que ele causa), o clima do painel, o clarão e o aviso para o leitor de tela aparecem juntos, na
+  revelação. Com movimento reduzido nada espera. A chuva e a névoa desenhadas na pista seguem a corrida, como antes — nada
+  na tela pode adiantar o que a pista ainda não mostrou. Custo se errado: por ~1 s a faixa mostra um título no lugar do
+  resultado, e a narração do Dado chega ~1 s depois do instante do evento.
+- **(controlador) A faixa do Dado e a faixa do lugar ficam em cima, logo abaixo do painel; quando ali cobririam o cavalo do
+  jogador, vão para o pé da pista** (sobre o gramado e a cerca). A posição é escolhida uma vez por Dado (e na chegada, quando
+  o jogador cruza a linha) e não muda enquanto a faixa está na tela, só se a tela for redimensionada; as duas faixas nunca
+  se sobrepõem. A faixa pode cobrir o alto de um rival na raia 1, nunca o cavalo do jogador — o cavalo da raia 1 sobe acima
+  do próprio painel, então nenhuma posição em cima o livra. Custo: com o jogador nas raias de cima, as faixas aparecem
+  embaixo, longe do painel.
+- **(controlador) "VOCÊ TIROU N" fica na mesma linha da frase do clima quando cabe** — a faixa ocupa menos pista.
+- **(controlador) A faixa do lugar, do 4º para baixo, usa o creme do texto do painel** (a spec dizia "a cor do painel", que é
+  a do fundo da faixa). Se errado: é uma cor.
+- **(controlador) Na tabela da chegada, a linha de baixo (dono · nível · skills) só quebra entre os pedaços** — "Nv 14" e
+  "skills 46%" nunca se partem; a 360 px pode ocupar duas linhas, e a linha da tabela continua com até 70 px. Cortar o nome
+  do dono com reticências esconderia dado. Se errado: é uma regra de CSS.
+- **(controlador) O fim da corrida espera a faixa do lugar sumir (2,5 s) antes de ir ao resultado; "Pular" continua
+  imediato** (proposta do executor, aceita na revisão) — sem isso, quem chega em último via a faixa só ~1,5 s.
+- **(controlador) Código:** `FX.stripOrder`, da faixa de números antiga, saiu junto com os testes dele (nada no jogo o usava;
+  volta do git se precisar); `FX.nomeEmLinhas` devolve o nome em maiúsculas, porque a fonte desenhada na pista só tem
+  maiúsculas (nada muda na tela); o rodapé dos commits do plano é "Claude Fable 5.2", o da sessão.
+
 ## 2026-11-15 — Visuais 2, parte 3b: decisões da execução (controlador)
 Tudo abaixo é do controlador (nada foi decidido pelo Vinicius).
 - **(controlador) Meta do Status: documento ≤ 1.470 px** (medido ~1.455: 1.450 a 1.457 conforme a densidade) (a conversa dizia ~1.100, a spec 1.200) — a cabeça com o retrato grande se

diff --git a/docs/GDD.md b/docs/GDD.md
@@ -128,6 +128,8 @@ cada faixa de distância). No nível 25 caem na Prata (Poder 782–791).
 
 **Acabamento da interface (Visuais 2, parte 3a).** Cada componente é desenhado em camadas: as linhas (contorno de 2 px, bisel em três tons, sombra) saem de `box-shadow` do CSS, e peças pequenas de pixel (rebites, pregos, veio da placa, ⓘ) vão por cima como imagens `pixelated` em múltiplos de 2 px. Não há `border-image`: molduras inteiras mostraram linhas nas emendas em densidades como 2,625 (comum em Android). As peças são feitas à mão em mapas de texto (`prototype/tools/interface-arte.mjs`), com as cores dos tokens do `game.css`, e entram no build; a folha `prototype/dist/interface.html` mostra todos os componentes. As duas fontes (Press Start 2P, só em 8, 16 ou 24 px, e Jersey 10) vão embutidas no jogo em `data:` (subconjunto latino, licença OFL, `prototype/assets/fontes/`), com o Google Fonts de reserva. Spec: `docs/superpowers/specs/2026-11-14-interface-acabamento-design.md`.
 
+**Tela da corrida e resultado (Visuais 2, parte 3c).** Embaixo da pista, uma faixa de ordem mostra todos os corredores na ordem do momento (a posição e o número da raia na cor da seda, o do jogador em dourado) e, numa segunda linha, o nome e a distância de quem vem logo à frente e logo atrás ("colado" quando a distância some); em tela baixa fica só a linha dos corredores. No Dado da Sorte, uma faixa grande na pista mostra "DADO DA SORTE" enquanto os dados giram e, quando eles param, o maior dado (o cavalo e o número), o efeito no clima e o número do jogador; ao mesmo tempo, a faixa de ordem mostra o número de cada corredor, com o do vencedor marcado. Quando o jogador cruza a linha, uma faixa com o lugar (VITÓRIA! em ouro, 2º e 3º em prata e bronze) fica cerca de 2,5 s antes do resultado; essas faixas descem para o pé da pista quando cobririam o cavalo do jogador, e "Pular" leva ao resultado na hora. O resultado mostra o pódio com o 1º lugar maior no centro, a manchete, entrada, prêmio, XP e saldo, os botões lado a lado e duas abas, Chegada (a ordem de chegada) e Momentos (os momentos da corrida); no caso comum (sem avisos de nível, skill ou Ouro), tudo isso até as abas cabe na primeira tela do celular. Spec: `docs/superpowers/specs/2026-11-15-tela-da-corrida-design.md`.
+
 ## 6. Estábulo e cruzamento
 
 Spec completa e algoritmo: `docs/superpowers/specs/2026-11-06-cruzamento-design.md` (o código é `prototype/src/breed.js`). Números reais: `docs/wiki.md` (Cruzamento); potros de exemplo em `docs/exemplos.md` §4.
